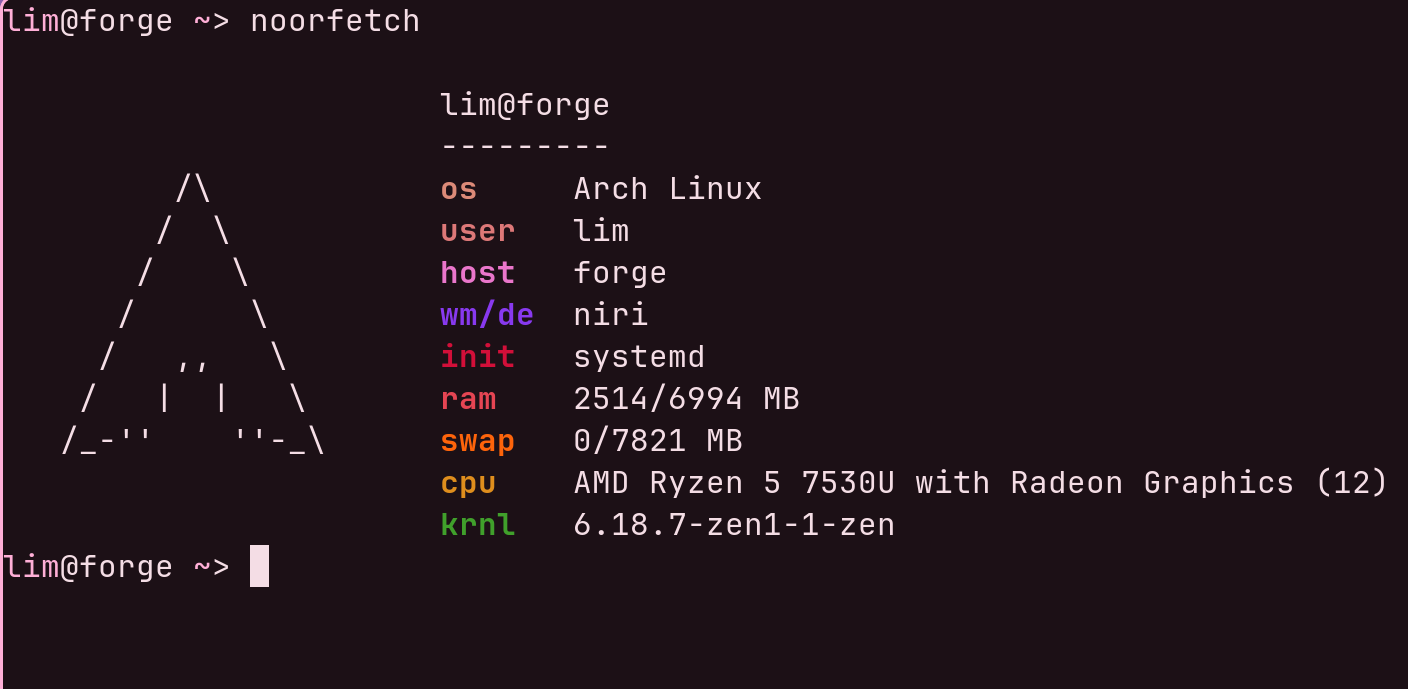
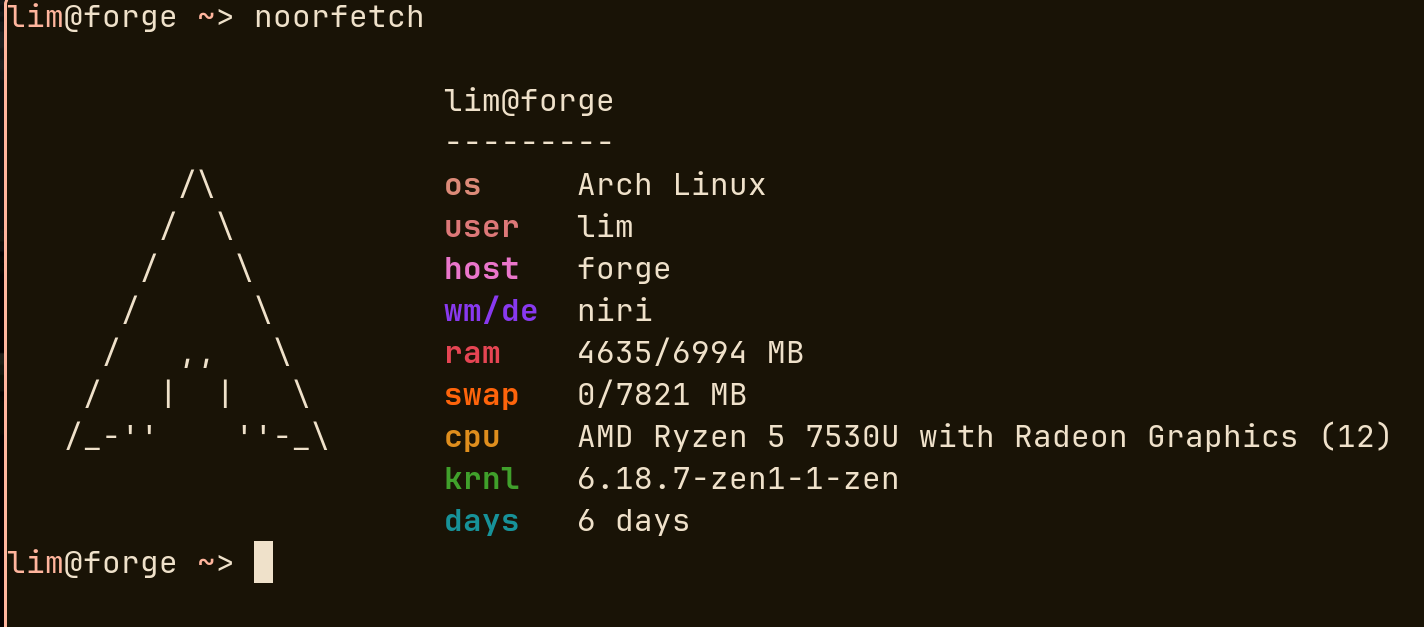
Update screenshot and .gitignore

diff --git a/src/Settings/date.rs b/src/Settings/date.rs
@@ -2,7 +2,7 @@ use std::fs;
 use std::time::SystemTime;
 
 pub fn get_install_days() -> String {
-    let target_path = "/etc"; 
+    let target_path = "/usr/"; 
 
     if let Ok(metadata) = fs::metadata(target_path) {
         let install_time = metadata.created()
